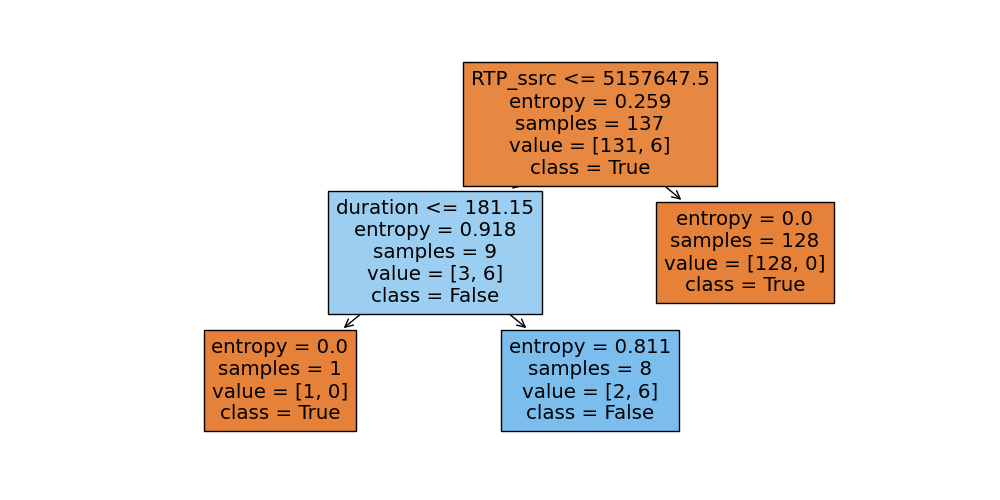
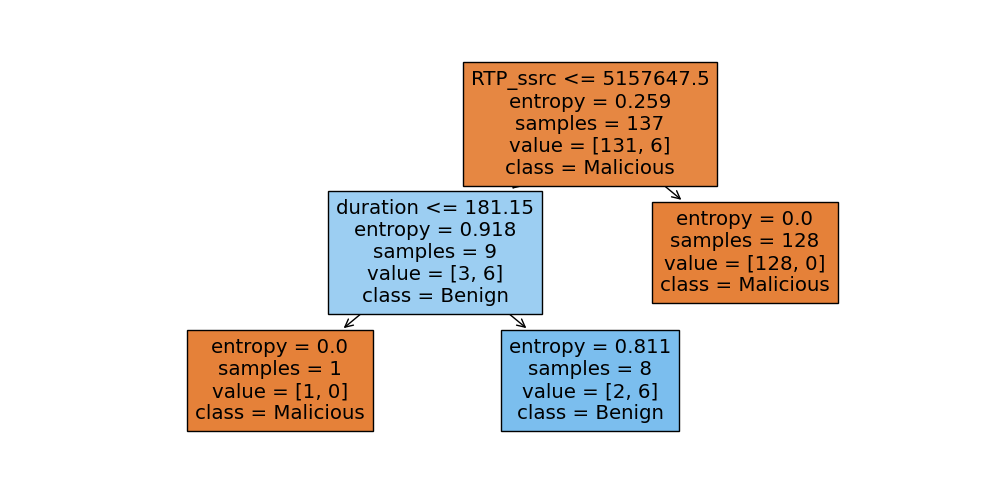
update of explanation of the tree

diff --git a/Code/Python Files/DesicionTree_classifier.py b/Code/Python Files/DesicionTree_classifier.py
@@ -18,7 +18,7 @@ print(text_representation)
 fig = plt.figure(figsize=(10,5))
 _ = tree.plot_tree(clf,
                    feature_names=list(X_train.columns.values),
-                   class_names= ["True", "False"],
+                   class_names= ["Malicious", "Benign"],
                    filled=True)
 plt.show()
 
